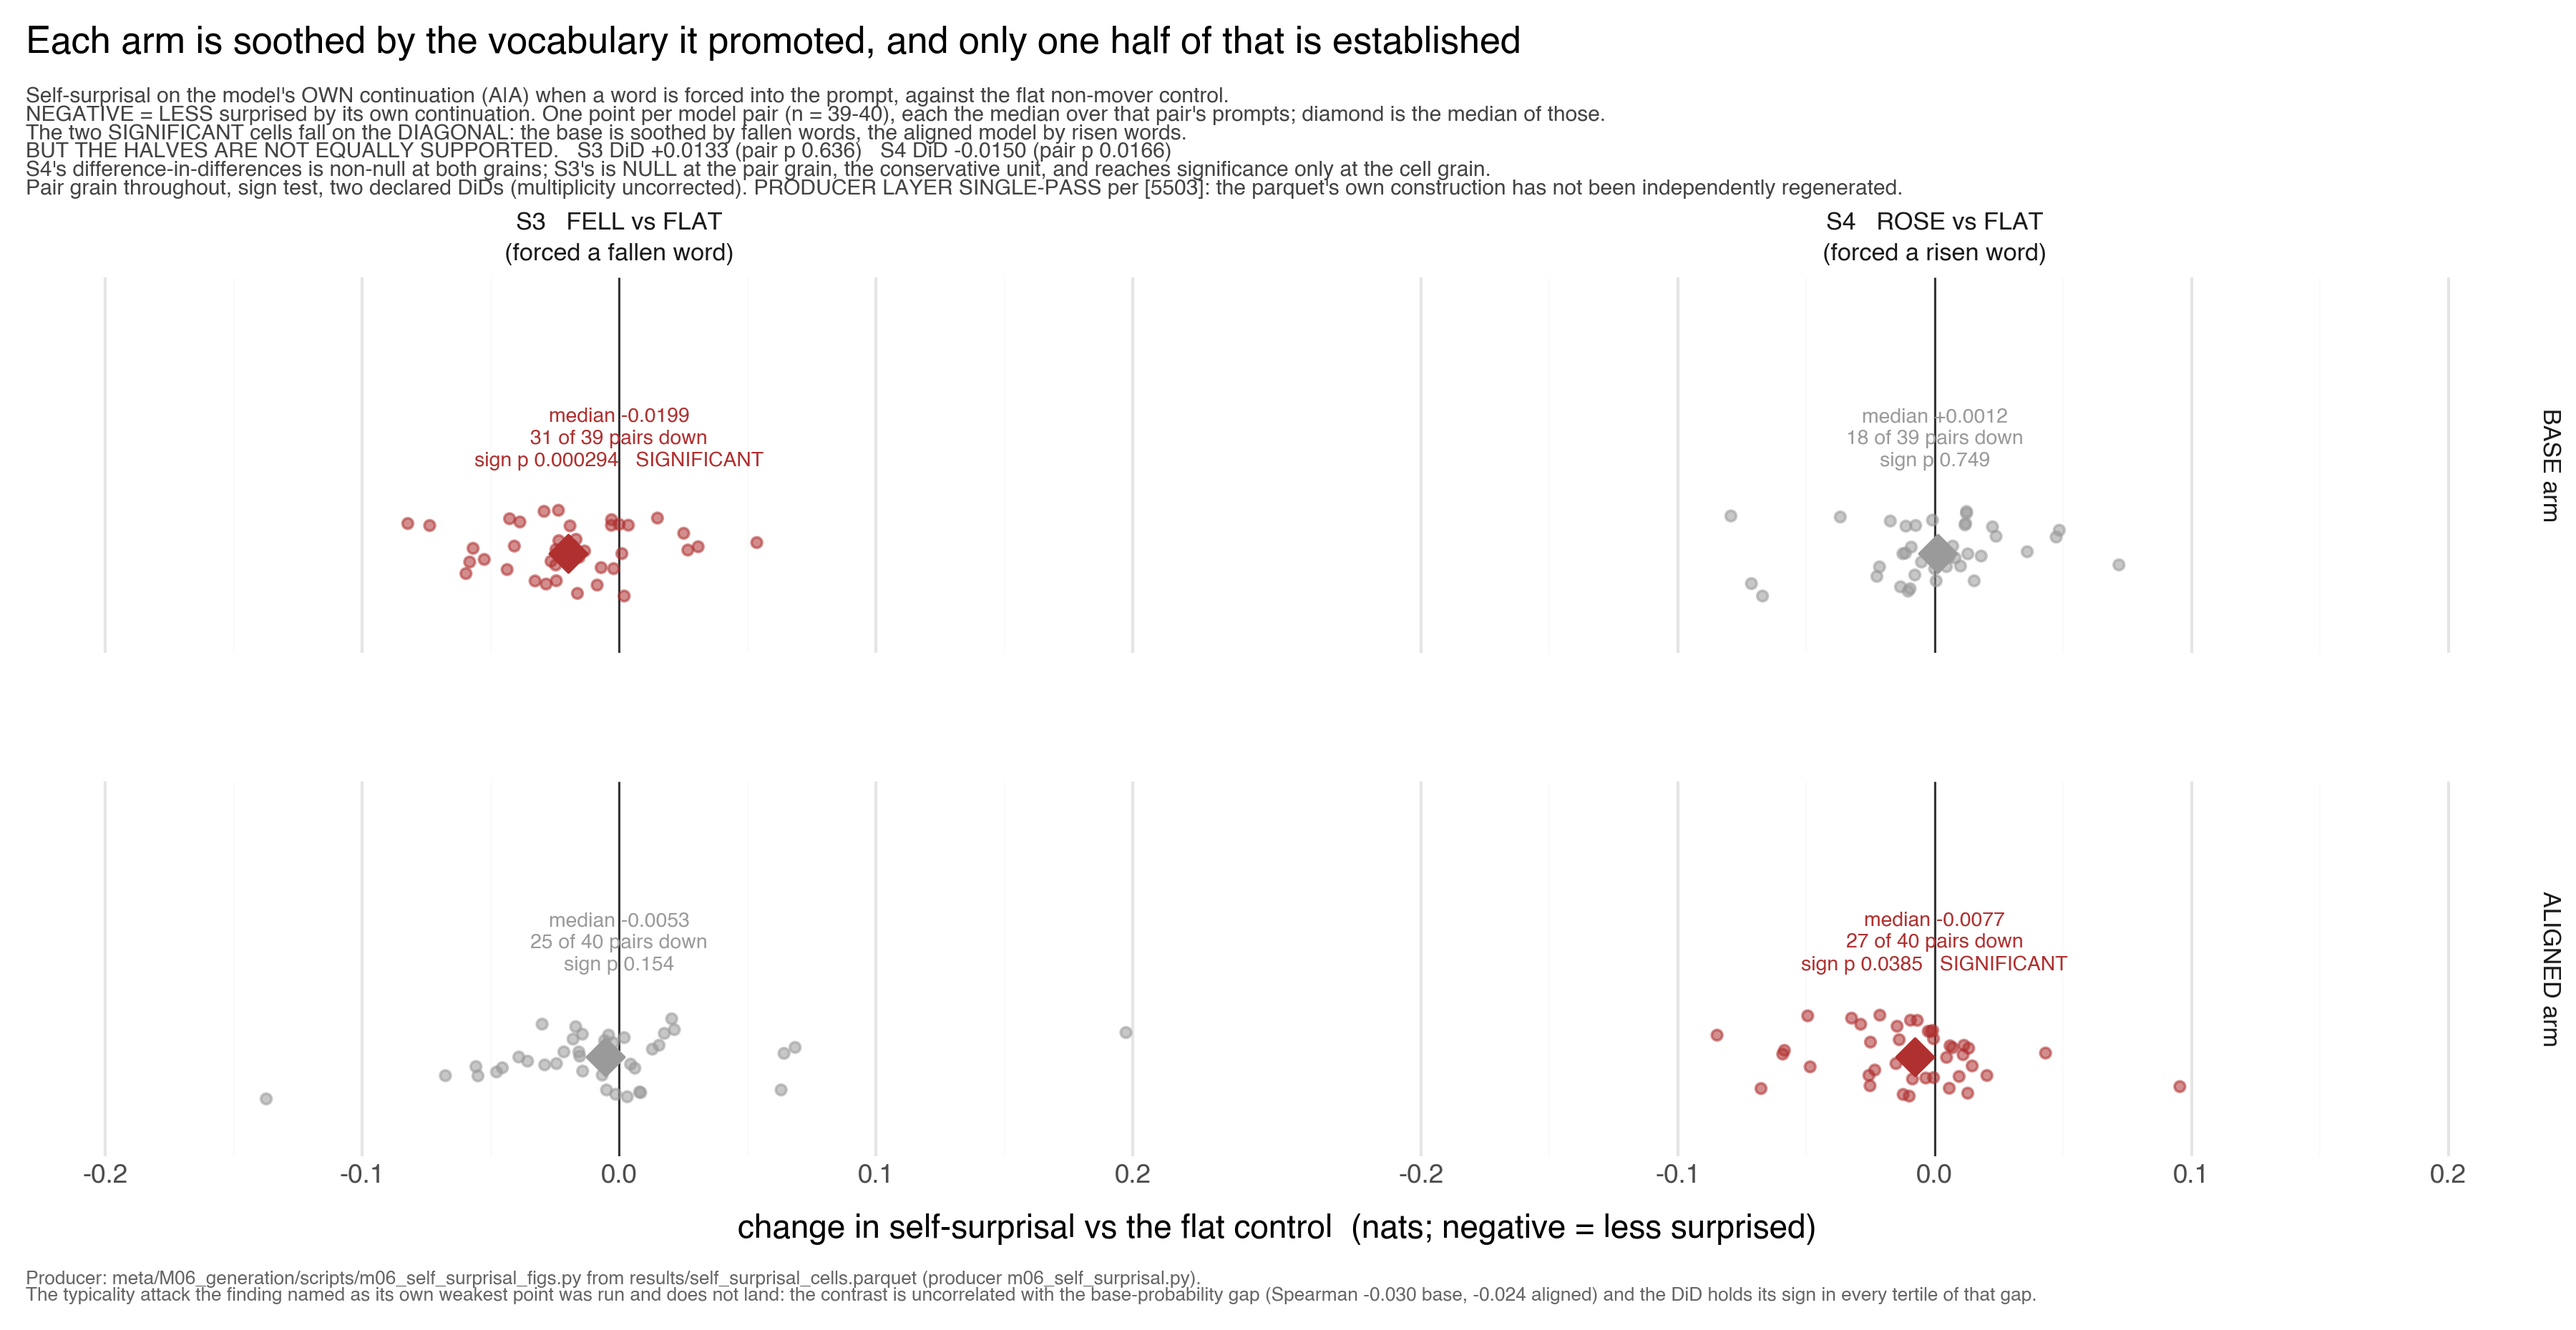
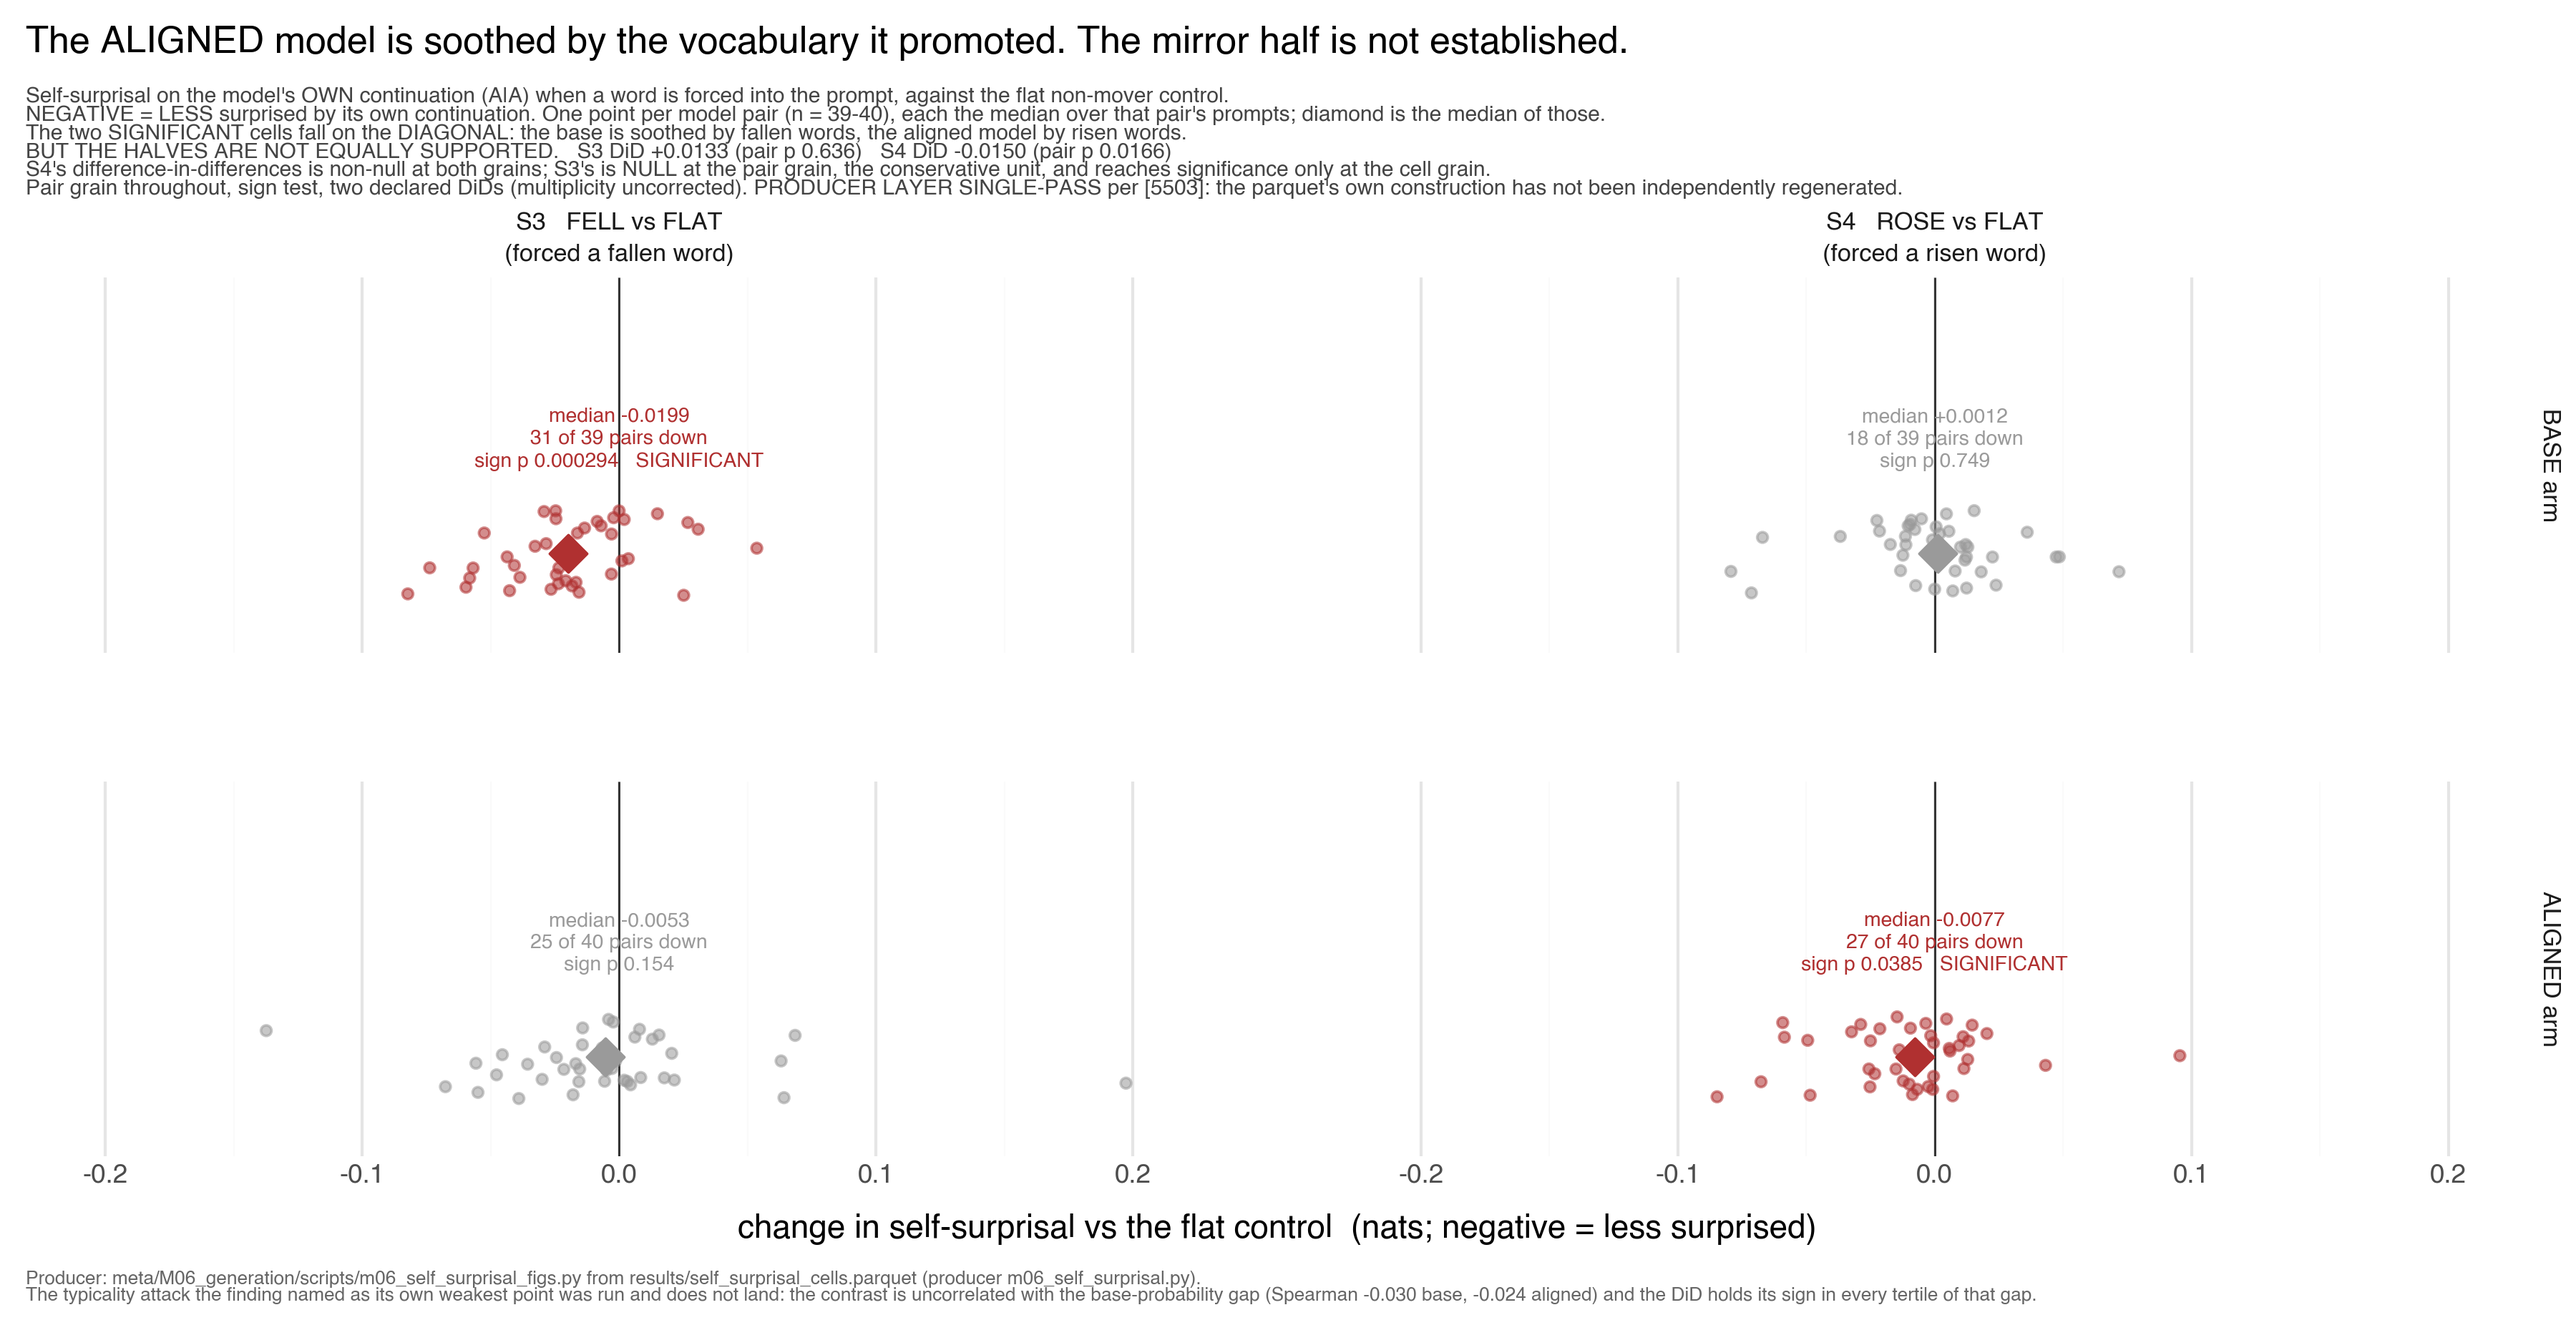
M06: realign the diagonal figure's title with the amended finding
lacan amended self_surprisal.md's title at 64dc3803 ([5917]) on the
ground that "each model is soothed by its own promoted vocabulary"
asserts BOTH DiDs in the one line most likely to be quoted without the
table, and only S4's is established at the pair grain.

This figure's title had the same defect and I did not see it while
writing the subtitle that says the opposite. It opened "Each arm is
soothed by the vocabulary it promoted, and only one half of that is
established": leads with the mirror, qualifies afterwards. A title is
read alone more often than any other element on a panel, so a
qualification placed after the claim is a qualification a quoting
reader will not carry.

Now leads with the established half and names the open one, matching
the finding's amended title.

diff --git a/meta/M06_generation/scripts/m06_self_surprisal_figs.py b/meta/M06_generation/scripts/m06_self_surprisal_figs.py
@@ -34,6 +34,14 @@ not established at the conservative unit. The panel says this on itself
 rather than in a caption, because the caption is what gets dropped when
 a figure travels.
 
+The TITLE gets the same treatment for the same reason, and this file's
+first version failed it. It opened "Each arm is soothed by the
+vocabulary it promoted, and only one half of that is established",
+which leads with the mirror and qualifies afterwards -- in the one line
+most likely to be quoted without the panel. lacan amended the finding's
+own title on the identical ground at 64dc3803 ([5917]); this title now
+leads with the established half and names the open one.
+
 Position is the per-pair median delta; sign counts ride as text. The
 sign test is what the finding reports, so the counts are the evidence
 and the median is the effect size, not the other way round.
@@ -177,7 +185,7 @@ def diagonal():
         #: design choice, which is why this is pinned rather than tuned.
         + scale_y_continuous(limits=(-0.42, 1.32))
         + labs(
-            title="Each arm is soothed by the vocabulary it promoted, and only one half of that is established",
+            title="The ALIGNED model is soothed by the vocabulary it promoted. The mirror half is not established.",
             subtitle=(
                 "Self-surprisal on the model's OWN continuation (A|A) when a word is forced into the prompt, "
                 "against the flat non-mover control.\n"
